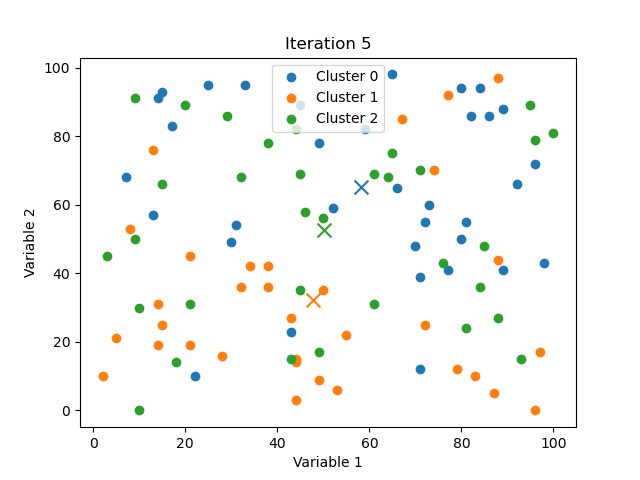
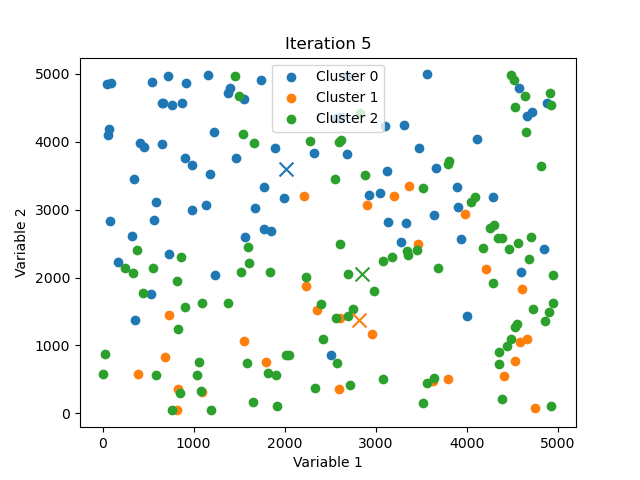
Final Arrangements

diff --git a/k_means.py b/k_means.py
@@ -1,5 +1,6 @@
 from scipy.spatial import distance
 from sklearn.cluster import KMeans
+from os import system
 import numpy as np
 import random
 import matplotlib.pyplot as plt
@@ -16,7 +17,7 @@ def centros(lista):
     centros_list = []
 
     # Convert the list into a numpy array
-    listasnonpy = np.array(lista)
+    listasnonpy = np.array(lista, dtype=object)
 
     for i in listasnonpy:
         centros_list.append(np.mean(i, axis = 0))
@@ -36,41 +37,52 @@ def cercanos(puntos,centros):
 def k_means(puntos):
     cantidad_de_centros = 0
     points = np.array(puntos)
-    # cantidad_de_centros = int(input("Elija la cantidad de centros: "))
-    cantidad_de_centros = 3
-    idx = np.random.randint(len(points),size=cantidad_de_centros)
 
+    cantidad_de_centros = int(input("Elija la cantidad de centros: "))
+    system('clear')
+    iterationts = int(input("Elija la cantidad de iteraciones: "))
+
+    idx = np.random.randint(len(points),size=cantidad_de_centros)
     k_lista = points[idx,:]
     clusters = cercanos(points, k_lista)
+
     # Redifine puntos and centers adjusting with the methods cercanos() and centros()
-    for i in range(100):
+    for i in range(iterationts):
         if i % 1 == 0:
             if i == 0:
                 title = "Initialization"
             else:
                 title = "Iteration {}".format(i+1)
+
         show_clusters_centroids(clusters, k_lista, title)
         clusters = cercanos(points, k_lista)
         k_lista = centros(clusters)
 
-    # Return the new adjusts list
-    return k_lista
+    # Return the new adjustes list
+    return clusters, k_lista
 
 def generarPuntos(i, j):
     puntos = []
     for cony in range(i):
         lista=[]
         for conx in range(j):
-            lista.append(random.randint(0, 100))
+            lista.append(random.randint(0, 5000))
         puntos.append(lista)
     return puntos
 
+# def generarPuntos(i):
+#     lista = []
+#     for con in range(i):
+#         lista.append(random.randint(0, 100))
+#     return np.array(lista)
+
+
 if __name__ == '__main__':
-    puntos = generarPuntos(100, 8)
-    print("Antes: ")
-    print(puntos)
-
-
+    system('clear')
+    system('clear')
+    puntos = generarPuntos(200, 8)
+    # print("Antes: ")
+    # print(puntos)
     cluster=k_means(puntos)
     print("Despues: ")
     print(cluster)
